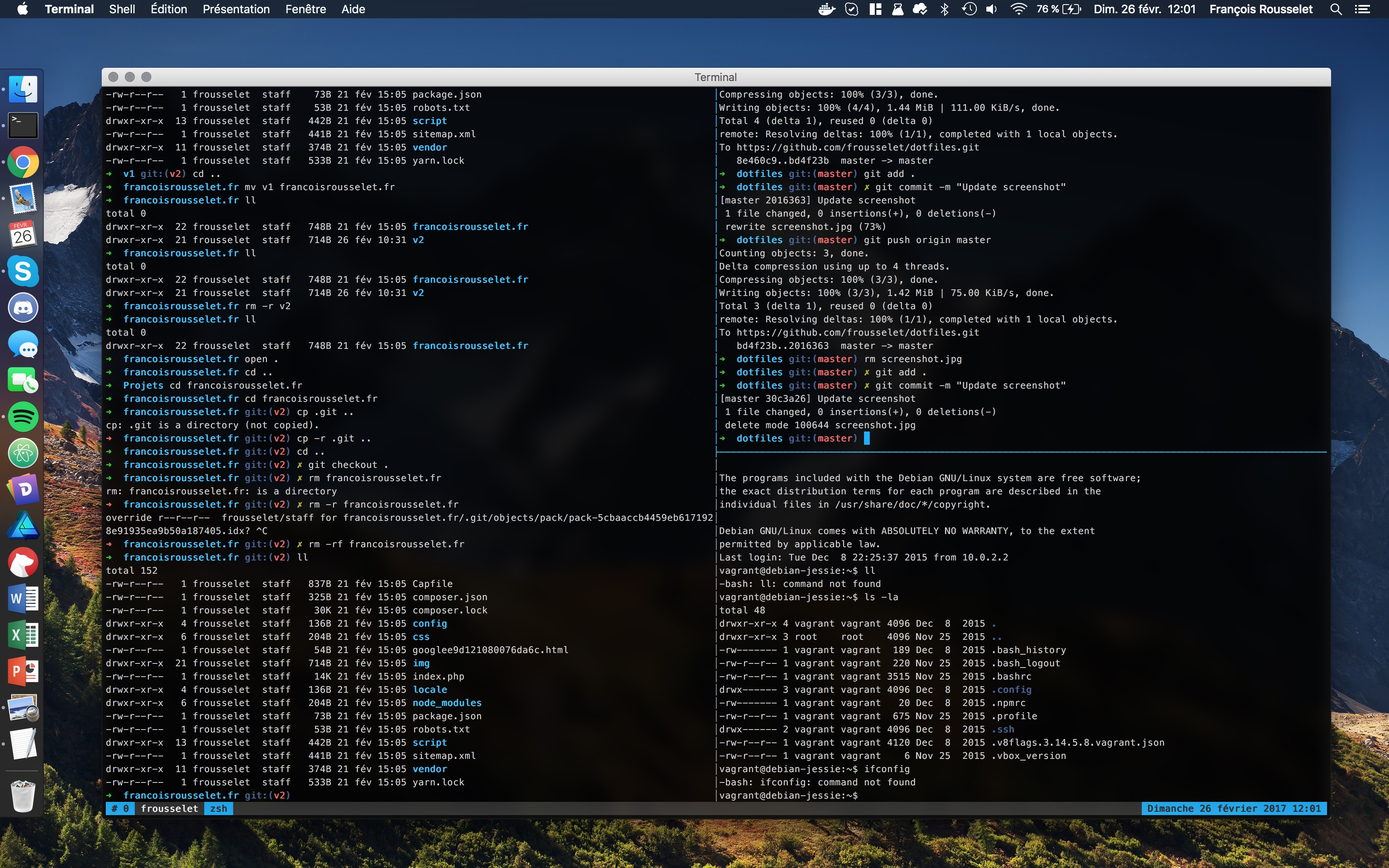
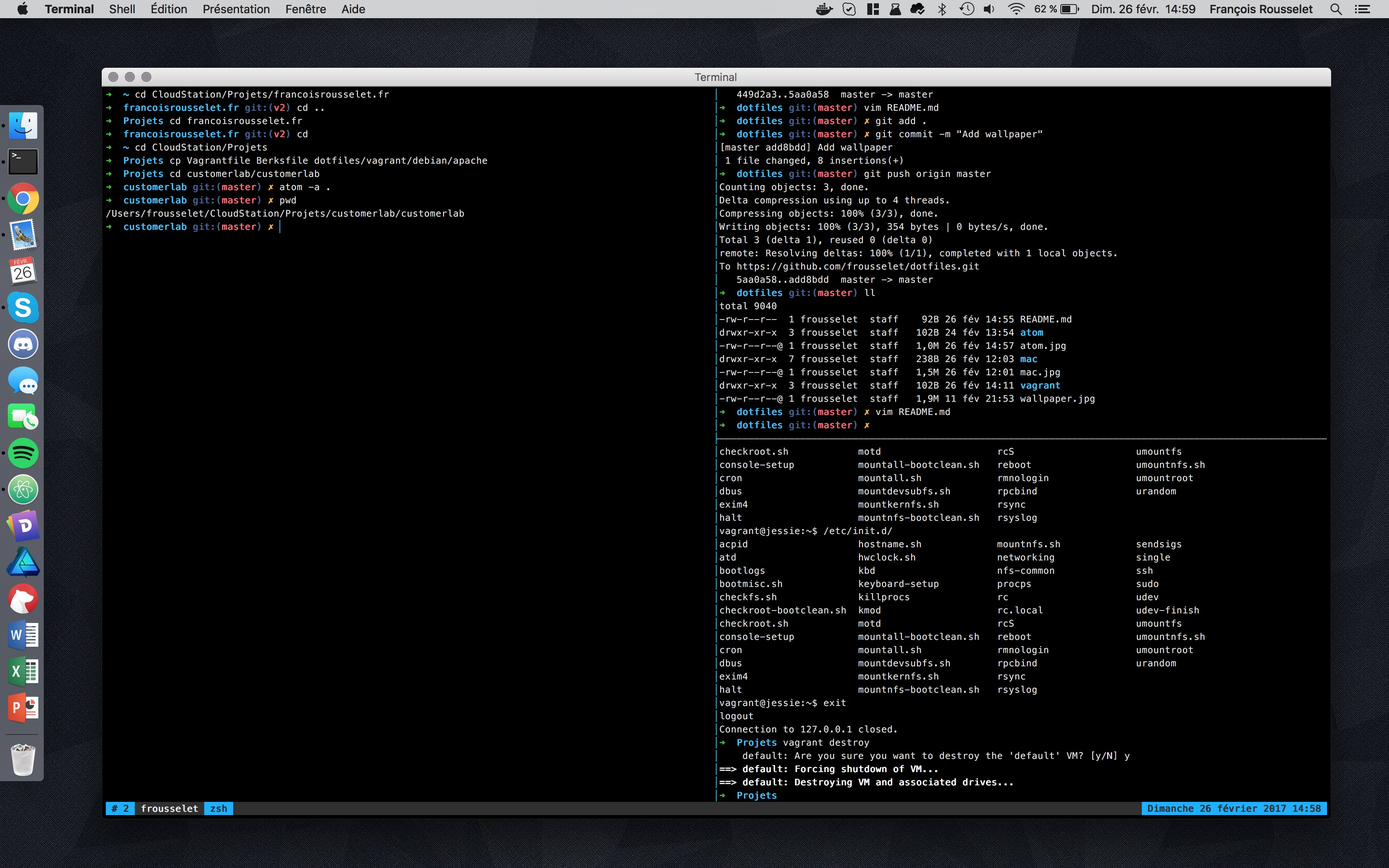
Update screenshots

diff --git a/README.md b/README.md
@@ -4,6 +4,10 @@
 
 ![Screen Shot](mac.jpg)
 
+## Atom
+
+![Atom](atom.jpg)
+
 ## Wallpaper
 
 ![Wallpaper](wallpaper.jpg)
